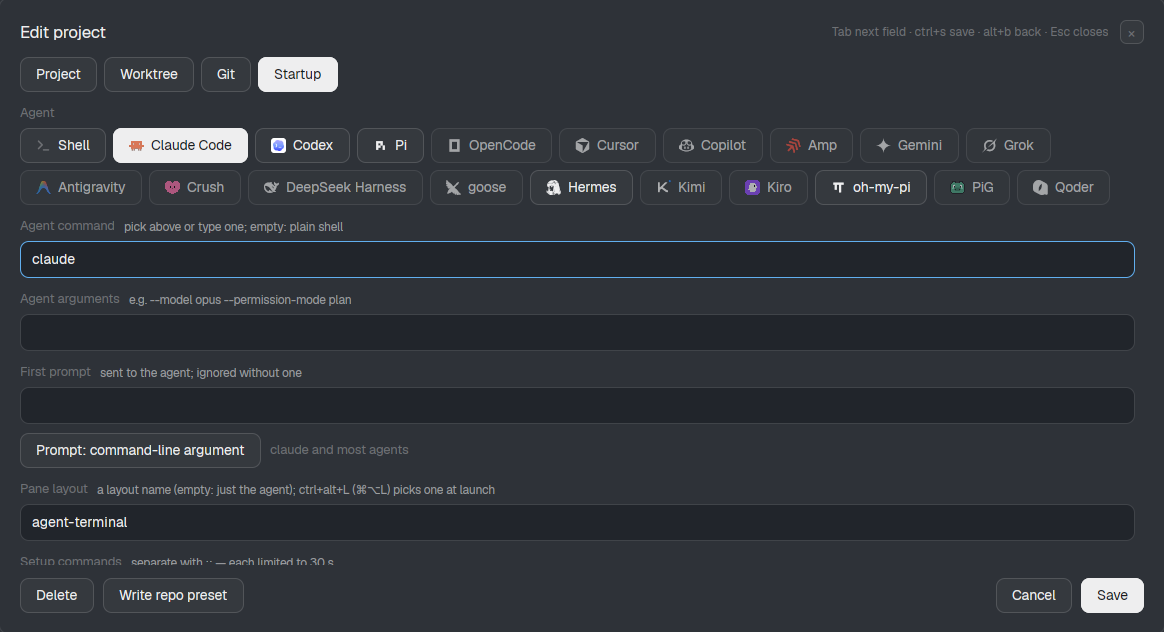
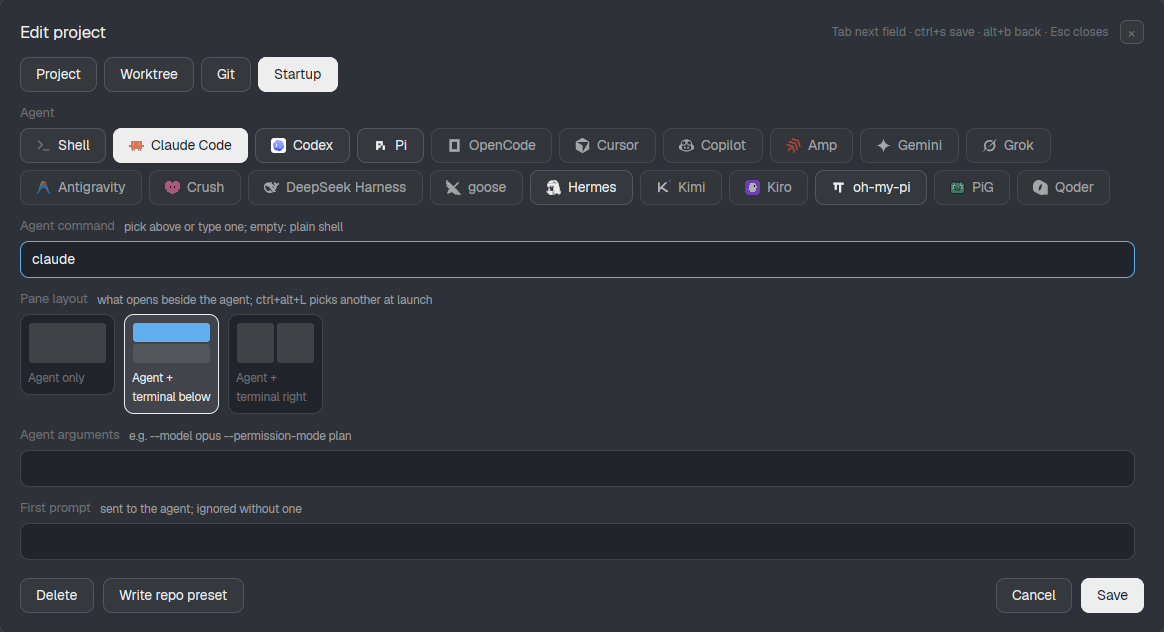
Pick the pane layout from cards in the editor; add Save to template to the new-project-from-template screen

Changed region(s): [[0.0, 0.4509, 0.3711, 0.7215], [0.0, 0.7516, 0.433, 0.8418], [0.0309, 0.8718, 0.2784, 0.9019]]

diff --git a/mods/project-presets/main.js b/mods/project-presets/main.js
@@ -54,7 +54,7 @@ const SECTION_FIELDS = {
   project: ["name", "path", "group"],
   worktree: ["branchTemplate", "root", "spaceName"],
   git: ["remote", "base"],
-  startup: ["agent", "args", "prompt", "layout", "setup", "tabs"],
+  startup: ["agent", "args", "prompt", "setup", "tabs"], // the layout is picked from cards, not typed
 };
 const MODES = ["ask", "always", "never"];
 const MODE_HELP = { ask: "ask for a branch name", always: "always a new worktree", never: "open the checkout" };
@@ -964,7 +964,12 @@ export default class ProjectPresets extends View {
       const d = this.collectDraft();
       if (!d.name) throw new Error("Give the project a name");
       if (!d.template) {
-        if (!d.path.trim()) throw new Error("Choose the project's folder: Browse… or type its path");
+        if (!d.path.trim()) {
+          if (this.section !== "project") this.showSection("project"); // where the Folder box is
+          throw new Error(this.editKind === "fromTemplate"
+            ? "This adds a new project, so it needs a folder: Browse… or type its path. To change the template itself, click Save to template."
+            : "Choose the project's folder: Browse… or type its path");
+        }
         await inspect(projectFolder(d));
       }
       let list = [...this.projects];
@@ -992,6 +997,22 @@ export default class ProjectPresets extends View {
       this.error = e.message;
     }
     cx.notify();
+  }
+
+  /** In "New project from the template": the person changed settings meaning to change the template, not to add a
+   *  project. Turns the editor into the template's own (its name, group and pin kept, no folder) and saves, which asks
+   *  about applying the changes to the existing projects as Edit on the template does. */
+  async saveToTemplate(cx) {
+    const template = this.projects.find((p) => p.template) ?? this.virtualTemplate ?? defaultTemplate();
+    const index = this.projects.indexOf(template);
+    const d = this.collectDraft();
+    this.fillEditor({ ...d, template: true, name: template.name, path: "", group: template.group, pinned: template.pinned });
+    this.index = index < 0 ? null : index;
+    this.editKind = "template";
+    this.draftBefore = JSON.parse(JSON.stringify(template));
+    this.draftLayouts = [];
+    this.error = null;
+    await this.save(cx);
   }
 
   async remove(cx) {
@@ -1411,6 +1432,26 @@ export default class ProjectPresets extends View {
     return box;
   }
 
+  /** The editor's layout choice: a card per layout with a picture of its panes, like the one in the detail card. The
+   *  choice is kept in the layout field's input state, so saving, the repo preset and the template read it as before. */
+  layoutCards(t, cx) {
+    const state = this.fields.find(([k]) => k === "layout")[1];
+    const current = state.value().trim();
+    const choices = [{ name: "", label: "Agent only", panes: [{ type: "agent" }] }, ...this.layouts];
+    for (const l of this.draftLayouts ?? []) if (!choices.some((c) => c.name === l.name)) choices.push({ ...l, note: "from the repo's file" });
+    // A name nothing defines (typed in the data file, or its layout was deleted): shown, so the choice is never changed silently.
+    if (!choices.some((c) => c.name === current)) choices.push({ name: current, label: current, panes: [{ type: "agent" }], note: "not found", bad: true });
+    return h_flex().gap(8).items_start().flex_wrap().children(choices.map((c, i) => {
+      const on = c.name === current;
+      return v_flex().id(`pp-edit-lay-${i}`).gap(4).p(6).rounded(9).border_1().cursor_pointer()
+        .border_color(on ? t.solid : t.input).bg(on ? t.selected : t.background)
+        .on_click(this.guard("editor layout click", () => { state.set_value(c.name); this.draft.startup.layout = c.name; cx.notify(); }))
+        .child(this.layoutThumb(t, c, on))
+        .child(div().text_size(z(10.5)).max_w(z(72)).text_color(on ? t.foreground : t.dim).when(on, (el) => el.font_semibold()).child(c.label ?? c.name))
+        .when(Boolean(c.note), (el) => el.child(div().text_size(z(9.5)).text_color(c.bad ? t.blocked : t.dim).child(c.note)));
+    }));
+  }
+
   /** Worktrees, Edit and Delete for the highlighted project: in the detail card, or under the list without it. */
   actionButtons(t, cx) {
     return h_flex().gap(8).items_center().flex_wrap()
@@ -1724,12 +1765,13 @@ export default class ProjectPresets extends View {
           .child(chip("pp-agent-shell", "Shell", "", this.shellIcon(t, 14), false))
           .children(this.agents.map((a, i) => chip(`pp-agent-${i}`, a.name, a.run.join(" "), this.programIcon(t, a, 14), a.installed === false))),
         field("agent"),
+        label("Pane layout", `what opens beside the agent; ${LAYOUT_HINT()} picks another at launch`),
+        this.layoutCards(t, cx),
         field("args"),
         field("prompt"),
         h_flex().pt(8).gap(8).items_center()
           .child(this.button(t, "pp-pmode", `Prompt: ${d.startup.promptMode === "send" ? "typed after start" : "command-line argument"}`, false, () => { d.startup.promptMode = d.startup.promptMode === "send" ? "arg" : "send"; cx.notify(); }))
           .child(div().text_size(z(11.5)).text_color(t.dim).child(d.startup.promptMode === "send" ? "for agents that reject a prompt argument" : "claude and most agents")),
-        field("layout"),
         field("setup"),
         field("tabs"),
       ],
@@ -1747,6 +1789,7 @@ export default class ProjectPresets extends View {
         .when(!d.template, (el) => el.child(this.button(t, "pp-write-preset", this.presetConfirm ? "Click again to replace the repo's file" : "Write repo preset", false, () => this.writePreset(cx))))
         .child(div().flex_1())
         .child(this.button(t, "pp-cancel", "Cancel", false, () => { this.mode = "list"; this.error = null; this.search.focus(); cx.notify(); }))
-        .child(this.button(t, "pp-save", "Save", true, () => this.save(cx))));
+        .when(this.editKind === "fromTemplate", (el) => el.child(this.button(t, "pp-save-template", "Save to template", false, () => this.saveToTemplate(cx))))
+        .child(this.button(t, "pp-save", this.editKind === "fromTemplate" ? "Add project" : "Save", true, () => this.save(cx))));
   }
 }

diff --git a/RECIPE.md b/RECIPE.md
@@ -31,13 +31,13 @@ The editor replaces the list in the same popup, in four sections chosen by butto
 - **Worktree cleanup** has a filter box (fuzzy, on branch and folder name) over a scrolling list of the repo's linked worktrees (`git worktree list --porcelain`, main checkout excluded) with the branch, folder, and badges: `open` (a space shows it), `uncommitted`, `locked`, `merged` (branch is an ancestor of `<remote>/<base>`) or `unmerged`. Enter or a click ticks the highlighted row; m (or Tick merged) ticks every merged, clean, unlocked one, and again unticks them; r (or the Remove button, labelled with the count) asks for confirmation and the second press removes the ticked ones with `git worktree remove` (never `--force`, so dirty ones are refused and reported). A merged branch is then deleted with `git branch -d`; an unmerged one is kept. The space showing a removed worktree is closed with `space.close`.
 - **Space name and repo space** (worktree modes only): the new worktree's space is named from `worktree.spaceName` (variables `{name}` the project's display name, `{branch}`, `{slug}`, `{user}`, `{date}`, `{repo}`; an empty result falls back to `<name> · <branch>`). When `worktree.repoSpace` is on and no space shows the project's main checkout, a plain-shell space named after the project is opened on it first, then the worktree space, which herdr nests under it. If the repo's space is already open nothing extra is created.
 - **Sections and the detail card:** without a search the list has headers (Open now: a space shows the folder; Pinned; Everything else), 30 px high among 48 px rows (`v_virtual_list` takes per-item sizes); headers are dropped while searching or when only one group is non-empty. Each row has an avatar tile in the space's color (`shared("space.colors")`, palette as in the `spaces` mod; an outline when no space is open), a status stripe that pulses (`loop("opacity")`) while the agent works, the matched letters in bold accent, and chips from `gitSummary` (branch, changed files from `status --porcelain`, linked worktrees), loaded three projects at a time after the list shows, unless `"gitInfo": false` is in the data file (it runs git in every project on every open). A 340 px card beside the list shows the highlighted project (agent, branch, changes, worktrees, last opened from `project-presets.recent`, a mini drawing of each layout from `layoutRects`, what Enter does, and the Open/Checkout/Worktrees/Edit/Delete buttons). The card is ON by default (shared state `project-presets.detail`; ctrl+alt+I / ⌘⌥I or the Hide details button turn it off). On older herdr-core versions the popup burned a full core and a draw could be cut off ("This view could not be re-rendered … interrupted"); the herdr-core update fixed that, and with it the original card, layout pictures and buttons measured 2–3% CPU; the buttons then sit under the list and the layout choice is the footer's text chips. `mod.json` overlay width is 1060. A render builds as few elements as it can: hints are one row of bold keys and plain strings, card rows are a label and a string, background redraws are batched into one every 250 ms, and buttons have no hover callback (each cost tens of ms).
-- **Pane layouts:** `project-presets.json` may hold a `layouts` list beside `projects` (kept when the editor saves). Two ship (`agent-terminal`, `agent-side-terminal`); a user layout of the same name replaces one. A layout is `panes`: the first is the agent, each next one has `direction` (`right`/`down`), a `type` (`shell`, `command` + `command`, `agent`), an optional `name`, and `from` (the pane to split; default the previous one). A project's `startup.layout` names one; ctrl+alt+**L** (⌘⌥**L**) in the list or the name step steps none, then each layout for that launch (a selector under the list shows them all, the one in use lit; it bolds with an accent ring for a second after a change). After `space.new`, each extra pane is made with `herdr-app do pane.split {direction, pane, argv}` (its `pane` reply is the next pane's id); `argv` wraps the command so it starts in the project folder, since a split takes none. Focus returns to the agent (`pane.focus`). Sizes are not set. An unknown layout name or a broken layout is shown before anything is created; a failed split is logged and ends the layout, the space and extra tabs still open.
+- **Pane layouts:** `project-presets.json` may hold a `layouts` list beside `projects` (kept when the editor saves). Two ship (`agent-terminal`, `agent-side-terminal`); a user layout of the same name replaces one. A layout is `panes`: the first is the agent, each next one has `direction` (`right`/`down`), a `type` (`shell`, `command` + `command`, `agent`), an optional `name`, and `from` (the pane to split; default the previous one). A project's `startup.layout` names one; the editor's Startup section sets it from a row of cards (Agent only, then each layout, with a picture of its panes; a name no layout has gets a "not found" card rather than being dropped), not a text box; ctrl+alt+**L** (⌘⌥**L**) in the list or the name step steps none, then each layout for that launch (a selector under the list shows them all, the one in use lit; it bolds with an accent ring for a second after a change). After `space.new`, each extra pane is made with `herdr-app do pane.split {direction, pane, argv}` (its `pane` reply is the next pane's id); `argv` wraps the command so it starts in the project folder, since a split takes none. Focus returns to the agent (`pane.focus`). Sizes are not set. An unknown layout name or a broken layout is shown before anything is created; a failed split is logged and ends the layout, the space and extra tabs still open.
 - **Close button:** `title()` draws every screen's heading: the name, the key hints and an × (`pp-close`) that calls `dismiss()`, the same as Esc. The busy screen leaves it out while a launch is under way (closing the popup cancels the launch) and shows it once the launch has failed.
 - **Settings and text size:** alt/ctrl/cmd+S or the Settings button in the list's heading opens `mode = "settings"` (`renderSettings`): Text size (A−, A+, Reset, and alt/cmd with `-`, `=`, `0`), Detail card, Git details (`setGitInfo` writes `gitInfo` to the data file). The text size is one of `SCALES` (0.8 to 1.5), kept in shared state `project-presets.scale` (anything else reads as 1) and held in the module as `scaleNow`. Every text size, row and header height (`ROW()`, `HEADER()`), button and box height, icon and avatar size, label width, layout picture and the card's width (`CARD()`) is written as designed and passed through `z()`, which multiplies by it; padding, gaps and the list's maximum height are not scaled. The popup's width can't be changed from inside the mod (herdr reads `overlay.width` from `mod.json` when it opens), so Settings only says where it is. The demo file accepts `"view": "settings"`.
 - **Folder scan:** the data file may hold `"scan": { "folders": ["~/code"], "depth": 3, "hidden": [] }` (`normalizeScan`; depth 1–6). alt/ctrl/cmd+F or the Scan… button opens `mode = "scan"` (`renderScan`): a box with Browse… and Add folder (refused when the folder is missing or already there), a Remove per folder, what was found, Scan again and "Show N hidden again". `runScan` runs one `find` per folder (`scanCommand`: `.git` *folders* only, so linked worktrees and submodules are not listed; hidden folders and `node_modules` are skipped), `parseScan` + `dropNested` make the folders, and each one's preset file is read. The answer is kept in the module (`scanCache`) so the next open shows it at once and asks again only after 30 s; at most 400 checkouts. `found()` turns the ones that are not saved projects or hidden into projects (`discoveredProject`: the saved template's settings, else the default template's, else blank; named after the folder; `discovered: true`) and memoizes them so the same objects come back. They sort after the saved ones and get the "Found in your folders" header (`listItems`). They are never written to the data file: Enter opens one, Edit ("Save as project…") and Duplicate open the editor on a new project for it (`editFound` → `savedProject` strips the marks), Delete ("Hide") adds its folder to `scan.hidden` after a second press. Nobody set a found checkout's base branch, so `ensureBase` asks git once per folder before it is opened, edited or its worktrees are listed (`detectBase`: the remote's HEAD, else main/master, else the current branch). Git details are read only for the highlighted found row (`infoForSelected`), not for all of them.
 - **Repo preset file:** `.herdr/project-presets.json` at a repo's top (`PRESET_FILE`) may set `name`, `group`, `worktree` (`mode`, `branchTemplate`, `root`, `spaceName`, `repoSpace`), `git` (`fetch`, `remote`, `base`, `fastForward`), `startup` (`agent`, `args`, `prompt`, `promptMode`, `setup`, `tabs`, `layout`) and `layouts`. `parseRepoPreset` keeps only what the file sets and throws on a wrong kind of value or a layout that can't be built; `applyRepoPreset` lays it over a project. Its commands run on the opener's machine, so it is never used unasked: a found project whose file has no answer shows `repo preset: review`, and Enter opens `mode = "trust"` (`renderTrust`) listing every setting (`presetSummary`; lines that run commands are highlighted) with Use these settings, Ignore the file and Back. Enter does not answer that screen; alt/ctrl/cmd+T uses the file. The answer is stored with the exact file text in `data/project-presets.trust.json` (`{ "<folder>": { text, use } }`, `loadTrust`/`saveTrust`), so a changed file is asked about again and until then its settings are not applied. Using a file adds its layouts to the person's own (`keepLayouts`, by name, theirs win). A file that can't be read shows `repo preset: error` and the project opens with the template's settings. For a saved project the file is not read at launch: Browse… on a new project fills the editor from it (`fillFromRepo`, with a note to read Startup), and saving adds its layouts. **Write repo preset** in the editor (`writePreset` → `repoPresetOf` → `writeRepoFile`) writes the draft's shared settings and the user layout it names to the repo's top folder, leaving out the folder, pin, worktree folder, space name and repo-space switch; a file with other content needs a second click; the written text is recorded as accepted. The demo file accepts `"view": "scan"`. It also accepts `"steps"`: actions run in order after the view is set (`runDemoSteps`: `["select", name]`, `["add"]`, `["list"]`, `["wait", s]`, or `["<method>", ...args]` with `"$cx"` for the context), to reach a screen that takes several actions; a step that fails, such as selecting a project that is not listed, ends the run. The review screen's list of settings has a fixed height: in herdr a scrolling box with only a maximum height draws at zero height.
 - **Import and export config:** alt/ctrl/cmd+X (or the Import / export… button) opens `mode = "backup"` (`renderBackup`): a file box (`this.backupPath`, default `~/Downloads/` + `exportFileName()` = `project-presets-config-YYYY-MM-DD-HHMMSS.json`, set afresh on each open) and Export / Import: merge / Import: replace. `exportData` writes `{ format: "project-presets-backup", version: 1, exportedAt, gitInfo, hideTemplate, layouts, projects }` with the home folder written as `~` in each project's `path` and `worktree.root` (`portablePath`); `parseBackup` also accepts a plain data file and rejects bad JSON, a missing `projects` list, another `format` and a newer `version`, each with its own message. Export to an existing file and Import: replace both need a second click (`this.backupConfirm`, cleared when the box changes); replace first writes the current file text to `<data file>.bak`, then `saveConfig(projects, raw, { layouts, gitInfo, hideTemplate })`. Merge uses `mergeProjects` (same name + folder counts as present; yours win; an incoming template is skipped when you have one) and `mergeLayouts` (by name). After an import `folderExists` flags projects whose folder is missing here. The demo file accepts `"view": "backup"` with `text`, `note`, `bad`.
-- **Template and duplicate:** a project with `"template": true` is a template: no folder, never launched, always the last row under a "Template" header (tagged `template`, shown on its card with Use template / Edit / Delete). When the file has none and `"hideTemplate"` is not true, the picker shows an unsaved default template (`defaultTemplate()`: Claude Code, `agent-terminal`, ask mode) that becomes a real entry the first time it is saved. Enter (or Use template, or Shift+Enter) on a template opens the editor on `duplicateProject(template)`: name "New project", no folder, the template's settings; saving that needs a folder and runs the usual git-checkout check. Editing a template skips the folder check. **alt/ctrl/cmd+U** (or the Duplicate button) opens the editor on `duplicateProject(project)`: `<name> copy` (`uniqueName` adds 2, 3…), the same folder, not pinned. Add project starts from a *saved* template (`startFromTemplate`: its settings without name, folder or pin), never from the unsaved default. Deleting a template (either kind) writes `"hideTemplate": true` next to `projects` (kept by `saveConfig(projects, raw, extra)`); removing the key brings the default back. The template is skipped by git lookups, worktrees, launching and space matching.
+- **Template and duplicate:** a project with `"template": true` is a template: no folder, never launched, always the last row under a "Template" header (tagged `template`, shown on its card with Use template / Edit / Delete). When the file has none and `"hideTemplate"` is not true, the picker shows an unsaved default template (`defaultTemplate()`: Claude Code, `agent-terminal`, ask mode) that becomes a real entry the first time it is saved. Enter (or Use template, or Shift+Enter) on a template opens the editor on `duplicateProject(template)`: name "New project", no folder, the template's settings; saving that needs a folder and runs the usual git-checkout check. Editing a template skips the folder check. **alt/ctrl/cmd+U** (or the Duplicate button) opens the editor on `duplicateProject(project)`: `<name> copy` (`uniqueName` adds 2, 3…), the same folder, not pinned. Add project starts from a *saved* template (`startFromTemplate`: its settings without name, folder or pin), never from the unsaved default. Deleting a template (either kind) writes `"hideTemplate": true` next to `projects` (kept by `saveConfig(projects, raw, extra)`); removing the key brings the default back. The template is skipped by git lookups, worktrees, launching and space matching. In the `fromTemplate` editor the primary button reads Add project, and a Save to template button (`saveToTemplate`) turns the draft into the template's own (its name, group and pin kept, no folder) and saves it as Edit on the template would; saving without a folder switches to the Project section and says which button does what.
 - **Saving a template that changed:** if any template setting differs from when the editor opened (agent, args, prompt, prompt mode, layout, setup, tabs, the worktree and git settings; not name, folder, group or pin) and there is at least one non-template project, Save asks first (`applyAsk`): **Apply to all N projects** writes only the changed settings to every non-template project, **Only the template** saves the template alone, **Keep editing** closes the question; alt+b also closes it, and Save is ignored while it shows. Done when: the saved projects keep every setting the template did not change.
 - **Delete** (the button or **d**) shows "Remove \"<name>\" from the list?" in red; pressing d or clicking Delete again removes the project from `project-presets.json`, any other key cancels. The folder and its worktrees are left alone. The editor's Delete button has its own two-click confirmation.
 - Selecting a project records it in shared state `project-presets.recent` for ordering.

diff --git a/README.md b/README.md
@@ -67,7 +67,7 @@ The list is split into **Open now**, **Pinned** and **Everything else** (no head
 
 ### Pane layouts
 
-A project can open its space with more than the agent: a terminal below it, a file manager beside it, a log tail. Name a layout in the project's **Startup → Pane layout** field, or press **ctrl+alt+L** (**⌘⌥L** on macOS) in the list or the branch-name step to pick one for this launch: it steps through none (the agent alone) and then every layout. A selector under the projects shows them all with the one this launch will use lit, and it briefly turns bold with an accent ring after each change.
+A project can open its space with more than the agent: a terminal below it, a file manager beside it, a log tail. Click a layout's card under **Startup → Pane layout** in the project's editor (each card shows a small picture of its panes), or press **ctrl+alt+L** (**⌘⌥L** on macOS) in the list or the branch-name step to pick one for this launch: it steps through none (the agent alone) and then every layout. A selector under the projects shows them all with the one this launch will use lit, and it briefly turns bold with an accent ring after each change.
 
 Two layouts ship: `agent-terminal` (a shell below the agent) and `agent-side-terminal` (a shell to its right). Add your own, or replace one of those, with a `layouts` list in `~/.config/herdr-app/data/project-presets.json`, next to `projects`:
 
@@ -121,7 +121,10 @@ The last row of the list is a **Template**: a project with no folder and some st
 
 - **Make your defaults once.** Select the Template and press **alt+e** (**⌘E**), set the agent, layout, worktree and git settings you want your projects to share, and save. A saved template has no folder, so saving never asks for one.
 - **Change the Template later, and apply it to your projects.** When you save the Template after changing an agent, layout, worktree or git setting, and you have other projects, the editor asks: **Apply to all N projects**, **Only the template**, or **Keep editing**. Applying writes just the settings you changed (listed in the question), so each project keeps its own name, folder, group, pin and every other setting. Changing only the Template's name or group asks nothing.
-- **Make a project from it.** Select the Template and press **Enter** (or click Use template). The editor opens on a new project with the template's settings; give it a name and a folder (Browse…) and save. The Template stays for the next one. Once you have saved the template, **Add project** (**alt+n**) starts from its settings too.
+- **Make a project from it.** Select the Template and press **Enter** (or click Use template). The editor opens on a new project with the template's settings; give it a name and a folder (Browse…) and save. The Template stays for the next one. Once you have saved the template, **Add project** (**alt+n**) starts from its settings too. The save button there reads **Add project** and needs a folder. If you meant to change the Template itself, click **Save to template**: your changes are saved to the Template and no project is added.
+
+  ![New project from the template: Add project needs a folder, Save to template changes the template](docs/screenshots/28-new-from-template.png)
+
 - **Duplicate any project** with **alt+u** (**⌘U**) or the Duplicate button. The editor opens on a copy named `<name> copy` (then `copy 2`, …) with the same folder and settings, not pinned; change what differs and save. It is the quick way to open one repository with another agent, layout or worktree mode.
 ![Duplicating a project: the editor opens on a copy](docs/screenshots/20-duplicate.png)
 
